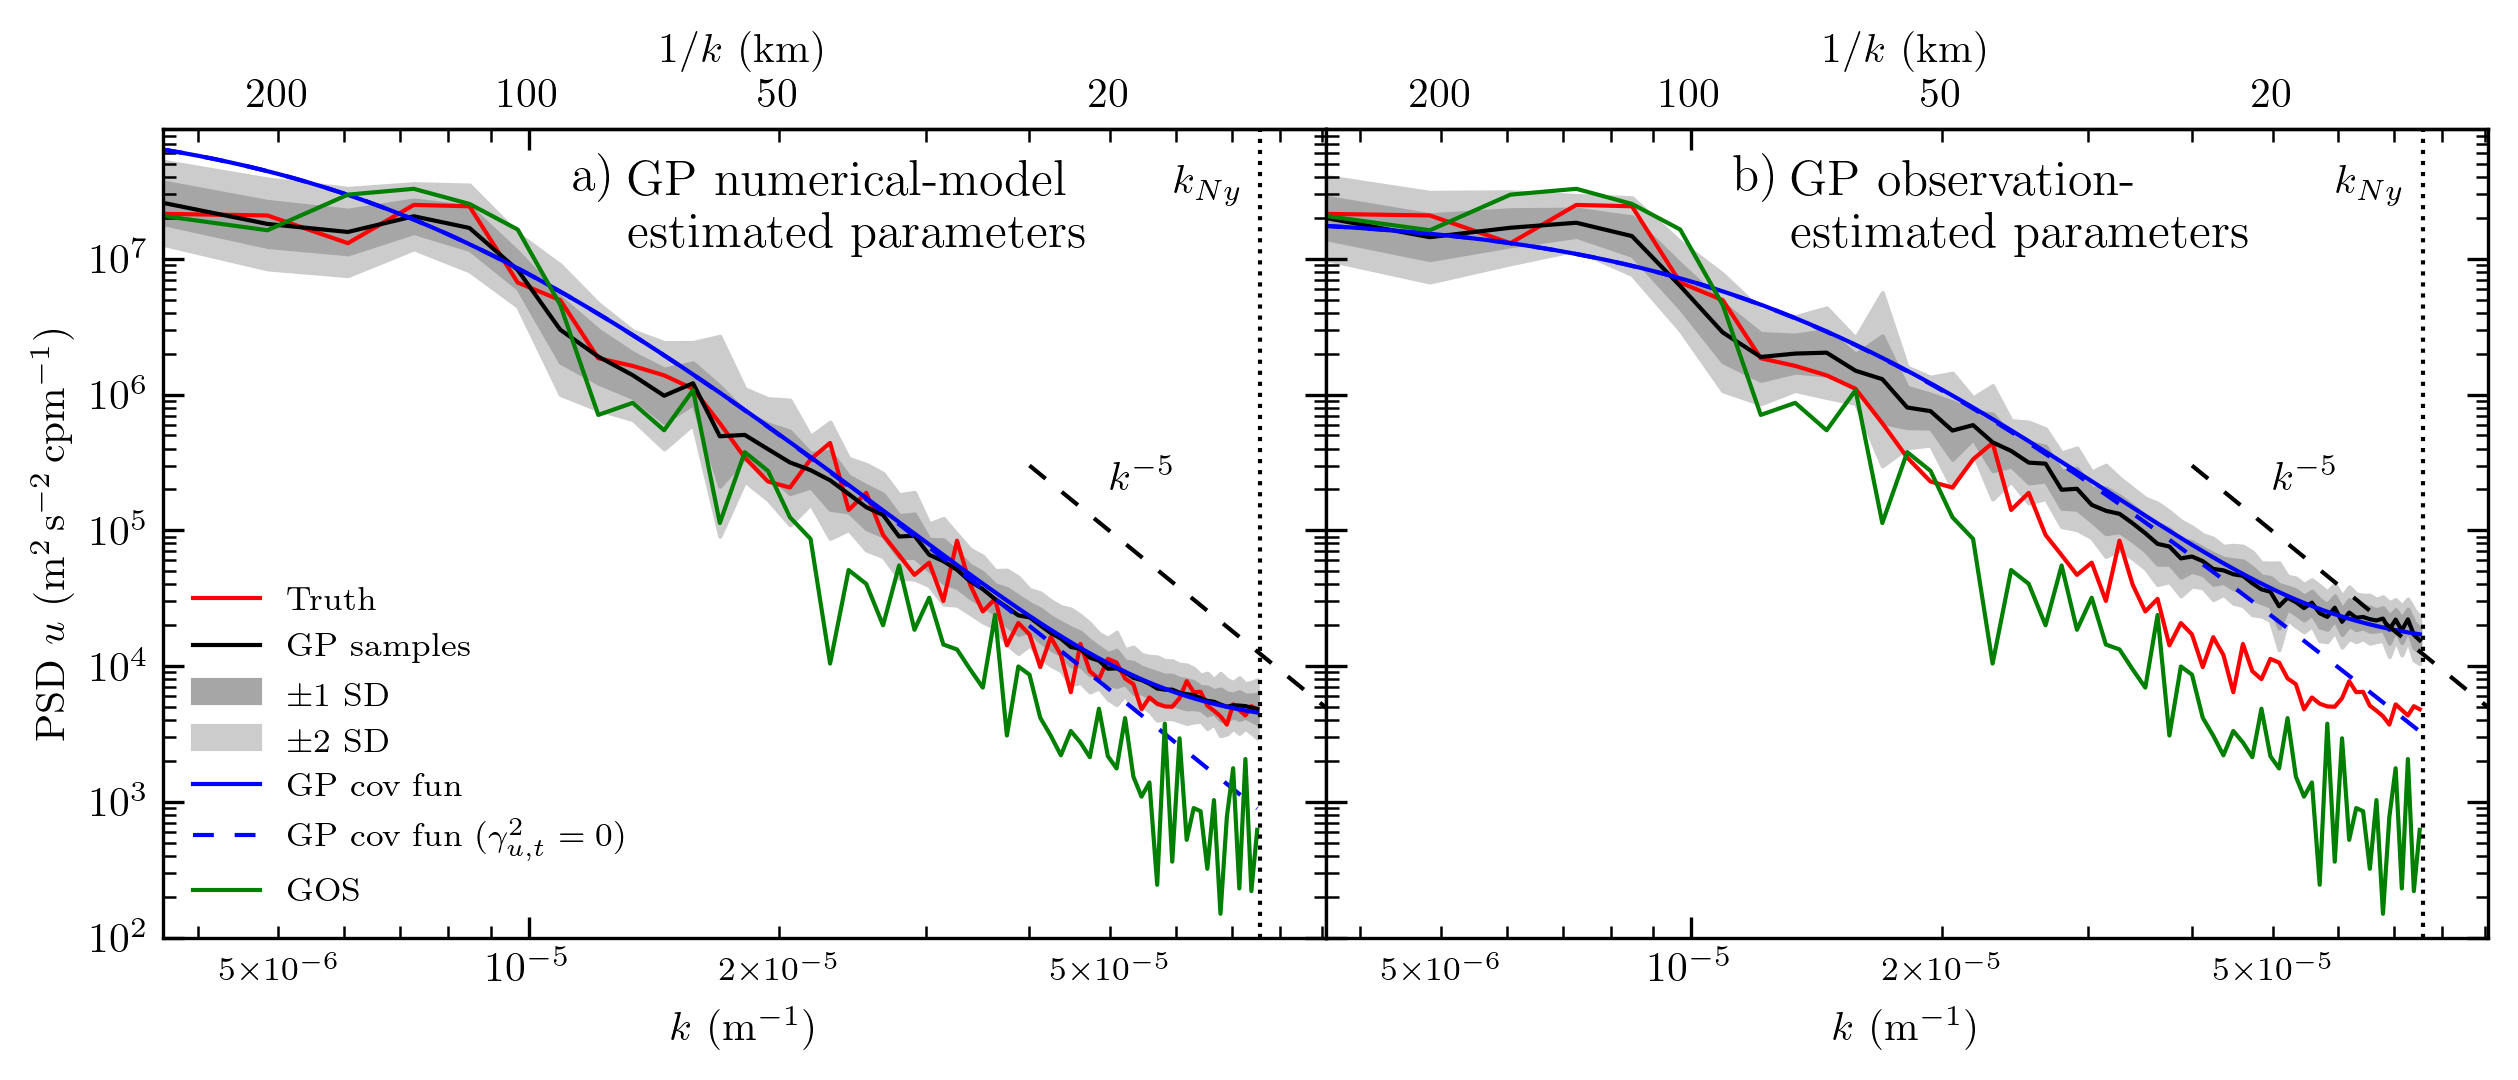
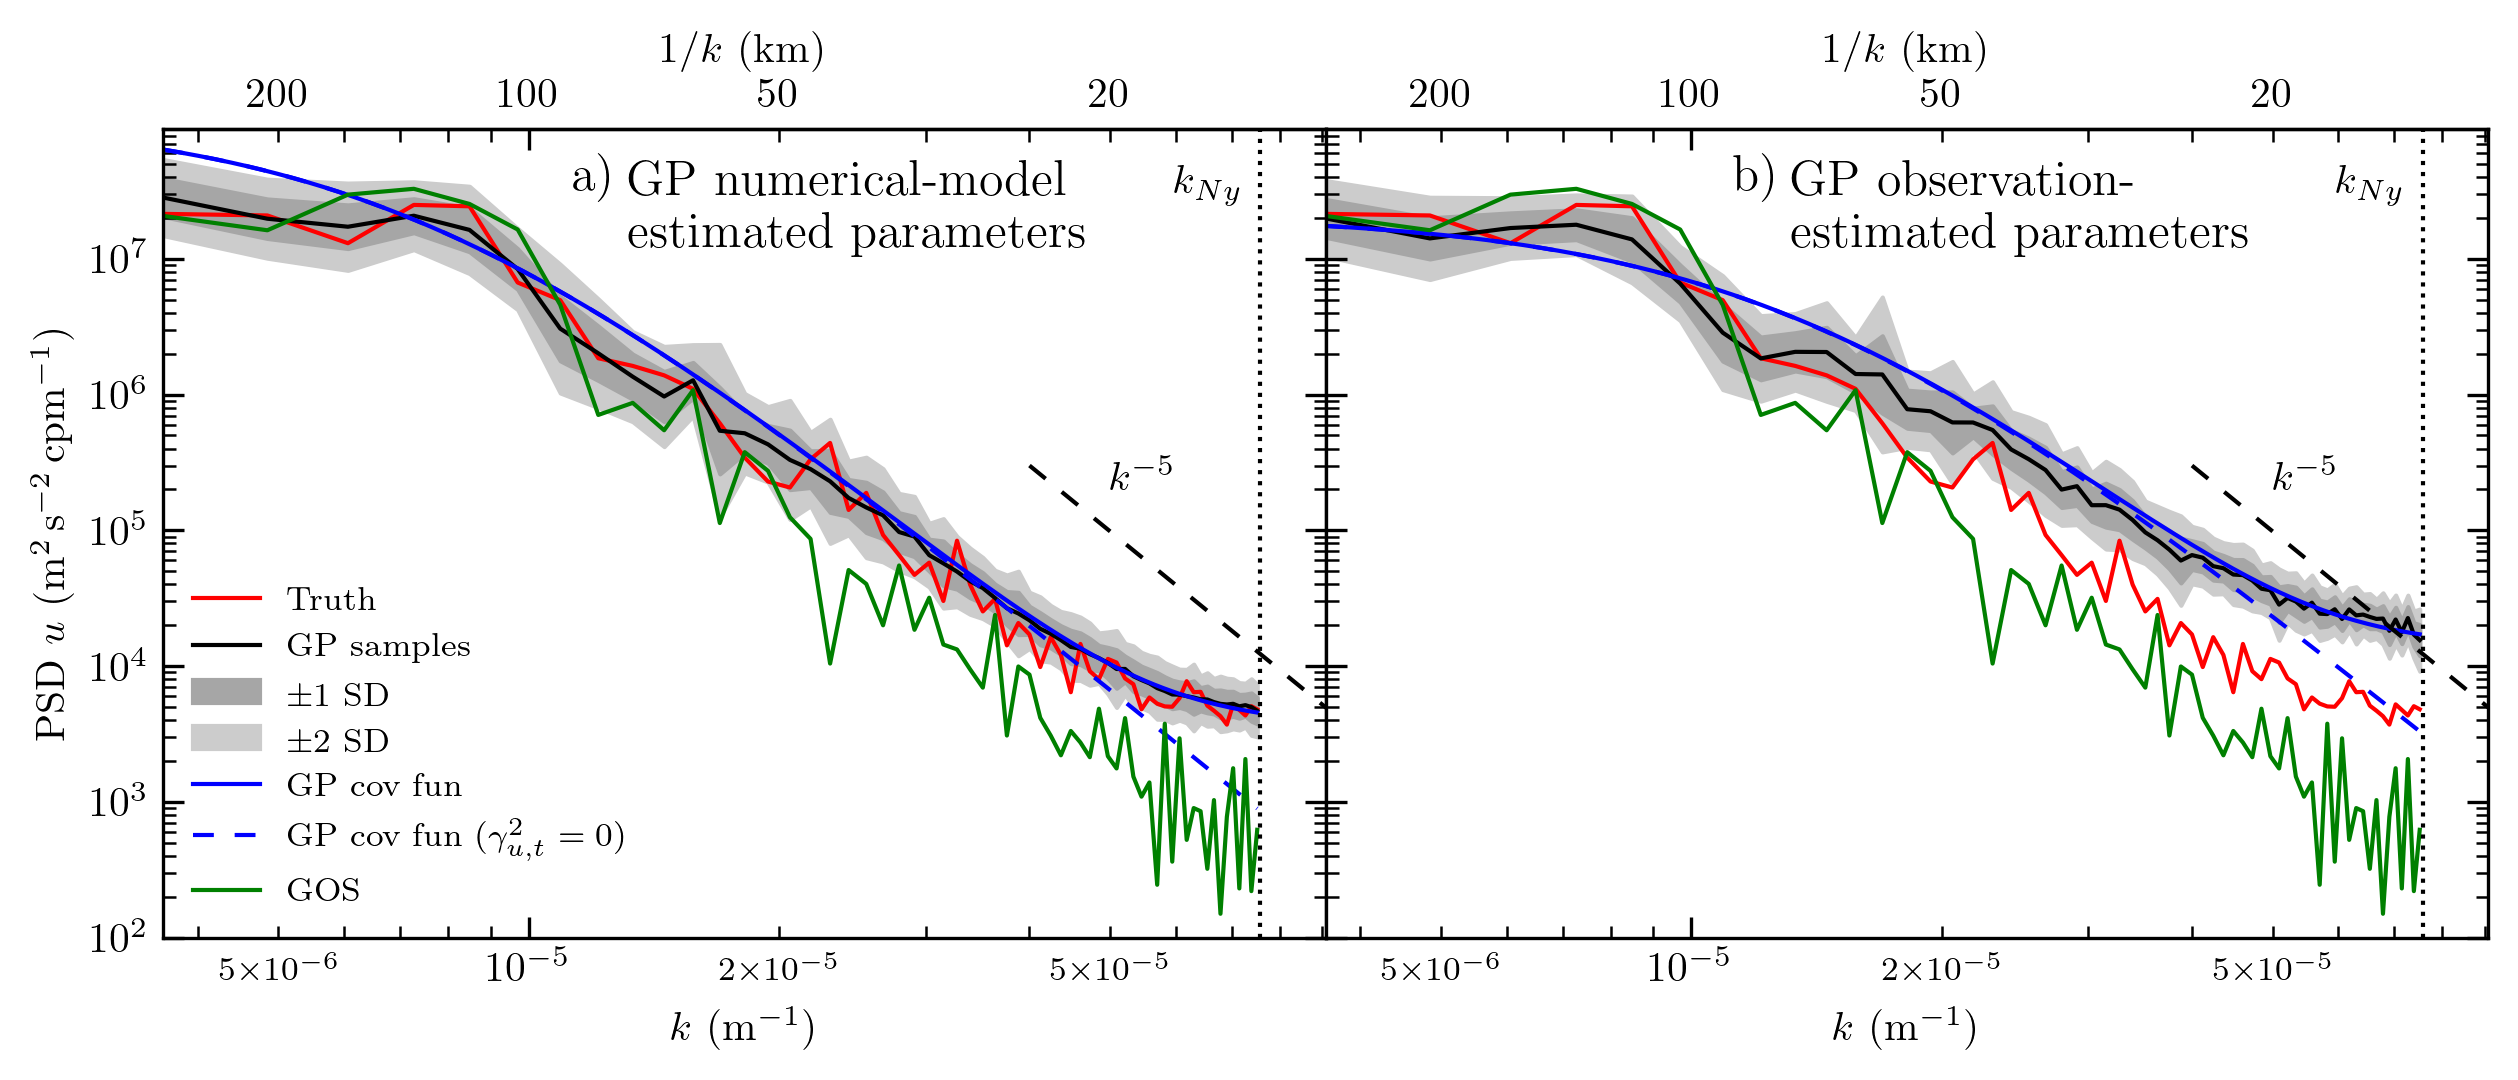
minor fixes

diff --git a/pkg/inversion_sst_gp/spectral_analysis.py b/pkg/inversion_sst_gp/spectral_analysis.py
@@ -1,4 +1,5 @@
 import numpy as np
+from scipy.special import gamma as gamma_func
 
 
 def isotropic_psd_2d(x, spacing, nbins=50, hann=True, log_bins=False):
@@ -164,11 +165,11 @@ def calculate_theoretical_psd_matern(f, sigma, l, nu, n, spacing, gamma=0.0):
     """
     # Numerator part of the constant fraction
     numerator = (
-        (sigma**2) * (2**n) * (np.pi ** (n / 2)) * gamma(nu + n / 2) * ((2 * nu) ** nu)
+        (sigma**2) * (2**n) * (np.pi ** (n / 2)) * gamma_func(nu + n / 2) * ((2 * nu) ** nu)
     )
 
     # Denominator part of the constant fraction
-    denominator = gamma(nu) * (l ** (2 * nu))
+    denominator = gamma_func(nu) * (l ** (2 * nu))
 
     # The frequency-dependent term
     freq_term = ((2 * nu) / (l**2) + 4 * (np.pi**2) * (f**2)) ** (-(nu + n / 2))

diff --git a/2_covariance_parameter_estimation/2_3_run_multi_optimize_satellite.py b/2_covariance_parameter_estimation/2_3_run_multi_optimize_satellite.py
@@ -118,4 +118,4 @@ def main():
     print("\nAll tasks completed")
 
 if __name__ == "__main__":
-    main()    main()    main()
+    main()

diff --git a/1_preproc_data/README.md b/1_preproc_data/README.md
@@ -1,15 +1,6 @@
 ### How to obtain the processed data in the `./proc_data` folder
 
 ---
-#### SUNTANS surface currents and surface temperature
-1. Visit [https://doi.org/10.5281/zenodo.18884342
-](https://doi.org/10.5281/zenodo.18884342
-)
-2. Download the NetCDF file `suntans_surface_prop_north_australian_basin.nc`
-3. Place the dowloaded NetCDF file in `./non_proc_data/suntans`
-6. Process the file by running `./1_1_preproc_suntans_data.py` this creates `./proc_data/suntans_1h.nc`, `./proc_data/suntans_24h.nc`, `./proc_data/suntans_dense_cloud.nc`, `./proc_data/suntans_measurement_error.nc`, and `./proc_data/suntans_sparse_cloud.nc`
-
----
 #### Himawari-9 surface temperature
 1. Visit [https://www.earthdata.nasa.gov/data/catalog](https://www.earthdata.nasa.gov/data/catalog) and search `H09-AHI-L3C-ACSPO-v2.90` and click on `GHRSST L3C NOAA/ACSPO Himawari-09 AHI Pacific Ocean Region Sea Surface Temperature v2.90 dataset`
 2. Click on `Data Access`
@@ -22,7 +13,16 @@
     - 2023-12-18 02:00:00
     - 2023-12-18 03:00:00
 5. Place the downloaded NetCDF files in `./non_proc_data/himawari`
-6. Process the files by running `./1_2_preproc_himawari_9_sst.py` this creates `./proc_data/himawari.nc`
+6. Process the files by running `./1_1_preproc_himawari_9_sst.py` this creates `./proc_data/himawari.nc`
+
+---
+#### SUNTANS surface currents and surface temperature
+1. Visit [https://doi.org/10.5281/zenodo.18884342
+](https://doi.org/10.5281/zenodo.18884342
+)
+2. Download the NetCDF file `suntans_surface_prop_north_australian_basin.nc`
+3. Place the dowloaded NetCDF file in `./non_proc_data/suntans`
+6. Process the file by running `./1_2_preproc_suntans_data.py` this creates `./proc_data/suntans_1h.nc`, `./proc_data/suntans_24h.nc`, `./proc_data/suntans_dense_cloud.nc`, `./proc_data/suntans_measurement_error.nc`, and `./proc_data/suntans_sparse_cloud.nc`
 
 ---
 #### Altimetry derived currents
